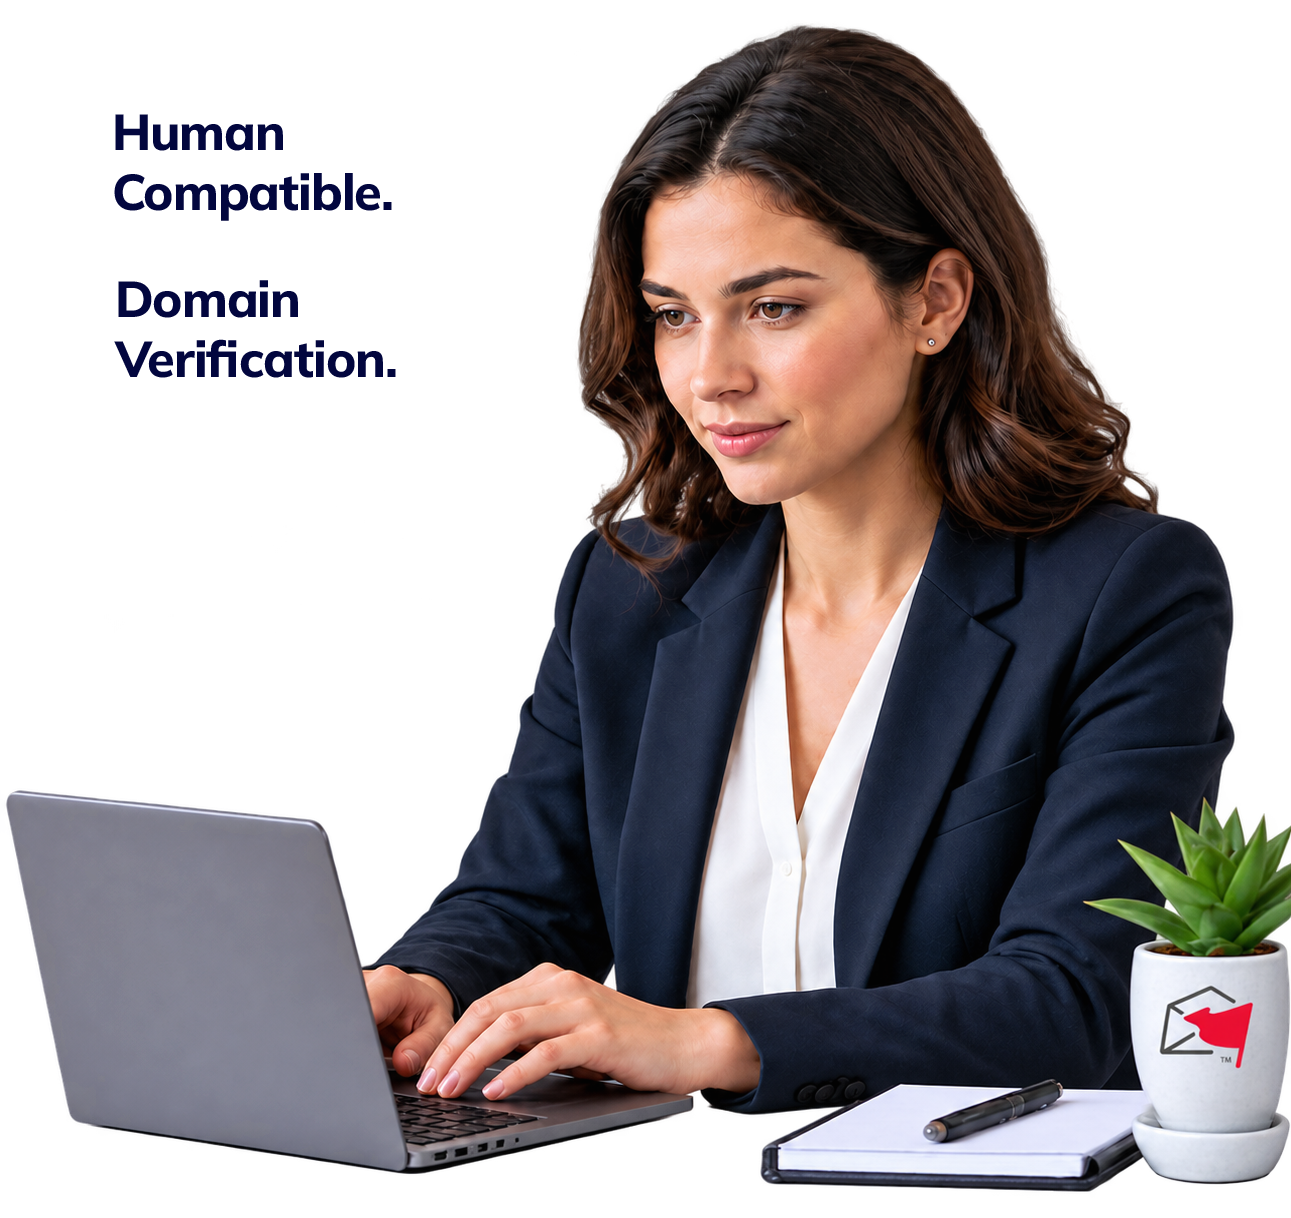
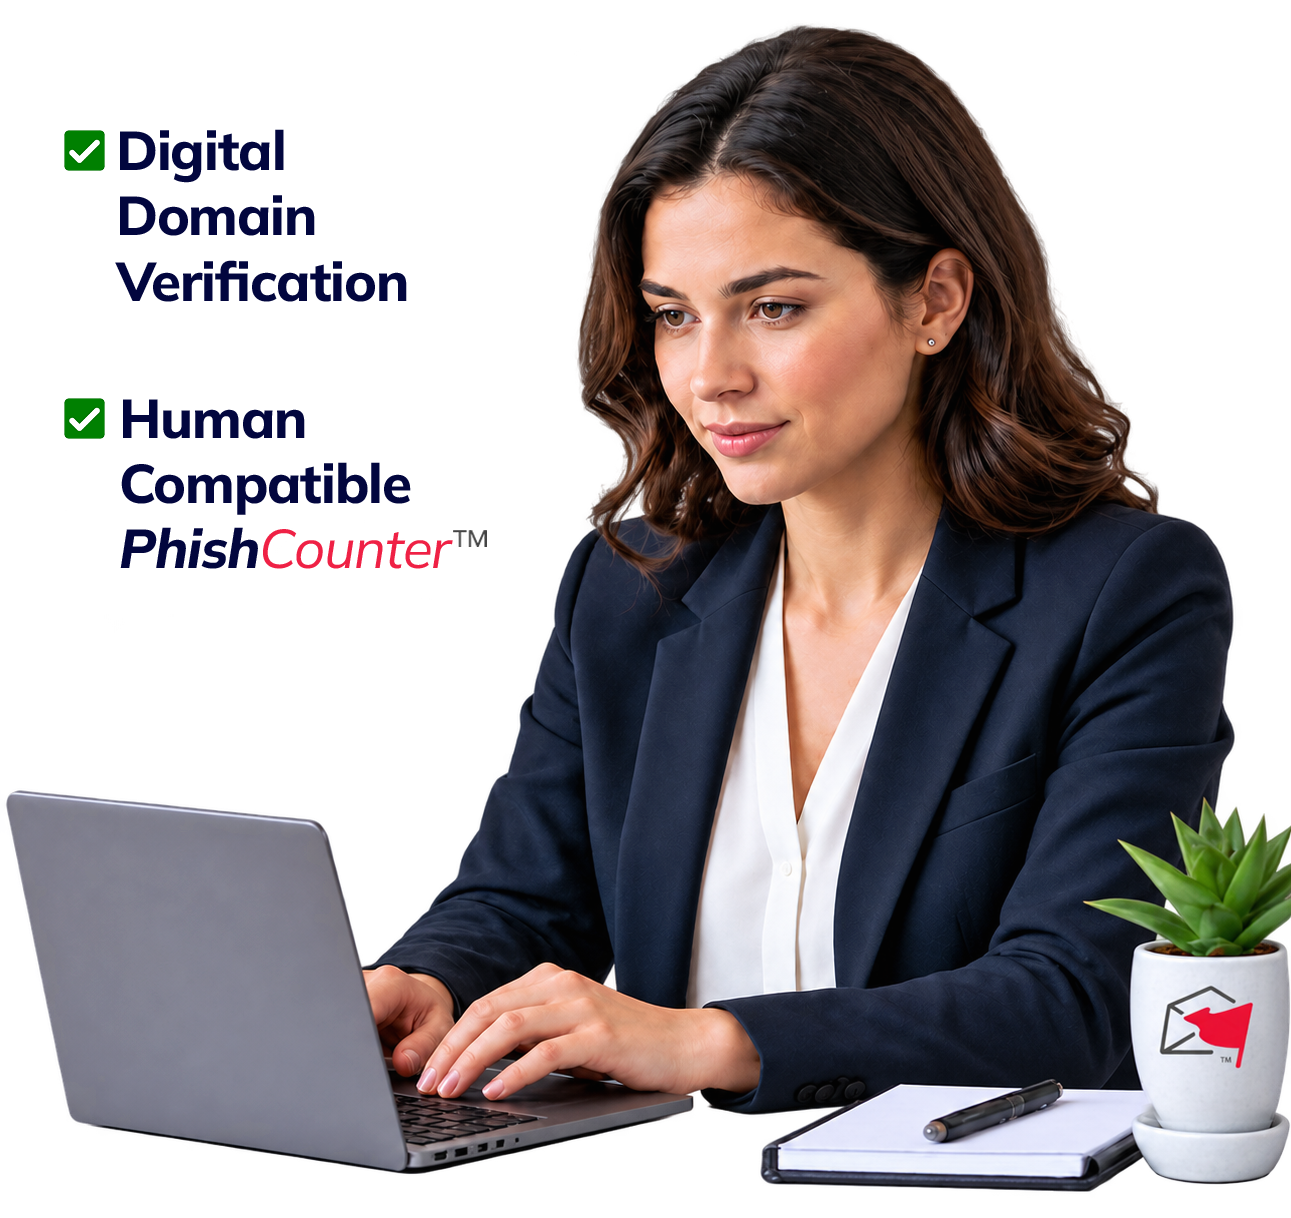
Home hero v3 image swap; /telecom hero images natural size; /join/domain receive card centered
- Home: 3rd hero image -> hero v3.png (old "need logo up" file removed)
- Telecom: drop scale-[...] transforms on the 3 hero images so they
  render at natural size like the /email hero
- DomainAppliance: centre the "What you will receive" card to match
  the /join/pro version
- Join: Digital action-card icon -> binary "10" glyph

Claude-Session: https://claude.ai/code/session_0186AyLfySxNzASERp4oJz87

Changed region(s): [[0.031, 0.0936, 0.3718, 0.468]]

diff --git a/src/pages/join/Telecom.jsx b/src/pages/join/Telecom.jsx
@@ -38,7 +38,7 @@ export default function Telecom() {
             <img
               src={telecomIntroCombinedImg}
               alt="Telecoms and Regulators — Help stop Call Spoofing. PhishFlagger protocols introduce a sequence number, known only by the valid carrier and the callee into the Caller ID field, providing a simple way to identify fake calls."
-              className="pic-with-no-link-mouse-over-increase relative z-10 block h-auto w-full max-w-[360px] scale-[0.8] object-contain sm:max-w-[400px] lg:w-[432px] lg:max-w-full lg:scale-[1.44] lg:-translate-x-[clamp(5rem,7vw,8.5rem)]"
+              className="pic-with-no-link-mouse-over-increase relative z-10 block h-auto w-full max-w-[360px] object-contain sm:max-w-[400px] lg:w-[432px] lg:max-w-full lg:-translate-x-[clamp(5rem,7vw,8.5rem)]"
             />
           </div>
 
@@ -47,7 +47,7 @@ export default function Telecom() {
             <img
               src={publicPath("/assets/images/existing%20caller%20id.png")}
               alt="Existing Caller ID can be used to validate calls now. The first three calls are marked safe and the fourth is marked fraud."
-              className="pic-with-no-link-mouse-over-increase relative z-10 block h-auto w-full max-w-[340px] scale-[0.7] object-contain sm:max-w-[380px] lg:w-[400px] lg:max-w-full lg:scale-[1.19]"
+              className="pic-with-no-link-mouse-over-increase relative z-10 block h-auto w-full max-w-[340px] object-contain sm:max-w-[380px] lg:w-[400px] lg:max-w-full"
             />
           </div>
 
@@ -56,7 +56,7 @@ export default function Telecom() {
             <img
               src={publicPath("/assets/images/granny image.png")}
               alt="User receiving an authenticated call"
-              className="pic-with-no-link-mouse-over-increase h-auto w-full max-w-[280px] rounded-2xl object-contain sm:max-w-[320px] lg:h-full lg:w-auto lg:max-w-full lg:scale-[1.3] lg:translate-x-[clamp(3.5rem,calc(3.5vw+1rem),5.25rem)]"
+              className="pic-with-no-link-mouse-over-increase h-auto w-full max-w-[280px] rounded-2xl object-contain sm:max-w-[320px] lg:h-full lg:w-auto lg:max-w-full lg:translate-x-[clamp(3.5rem,calc(3.5vw+1rem),5.25rem)]"
             />
           </div>
 

diff --git a/src/pages/join/DomainAppliance.jsx b/src/pages/join/DomainAppliance.jsx
@@ -229,15 +229,15 @@ export default function DomainAppliance() {
         <SectionCounter value="^0004" />
         <PageDownButton bg="white" />
         <div className="mx-auto grid max-w-content grid-cols-1 items-center gap-10 sm:gap-16 lg:grid-cols-2">
-          <div className="mx-auto w-full max-w-[420px] rounded-2xl border-2 border-black bg-white p-6 sm:p-8">
+          <div className="mx-auto w-full max-w-[420px] rounded-2xl border-2 border-black bg-white p-6 text-center sm:p-8">
             <h3 className="text-[16px] font-bold text-ink sm:text-[18px]">
               What you will receive.
             </h3>
-            <div className="mt-4 flex flex-col items-start">
+            <div className="mt-4 flex flex-col items-center">
               <span className="rounded-md border border-ink px-3 py-1 text-[12px] font-bold uppercase tracking-wide text-ink sm:text-[13px]">
                 Domain Appliance
               </span>
-              <ul className="mt-3 list-disc space-y-2 self-start pl-5 text-[14px] leading-[1.65] text-ink sm:text-[15px]">
+              <ul className="mt-3 w-full max-w-[220px] list-outside list-disc space-y-2 pl-5 text-left text-[14px] leading-[1.65] text-ink sm:text-[15px]">
                 <li>Terms of Service</li>
                 <li>Access Key</li>
                 <li>Appliance Install</li>

diff --git a/src/pages/join/Join.jsx b/src/pages/join/Join.jsx
@@ -234,15 +234,19 @@ export default function Join() {
               label="Digital"
               alt="Digital"
               svgIcon={
-                <svg viewBox="0 0 24 24" className="h-[64px] w-[64px] sm:h-[78px] sm:w-[78px]">
-                  <path
-                    d="M7 12.5l3.3 3.3L17 8.5"
-                    stroke="#16a34a"
-                    strokeWidth="2.5"
-                    strokeLinecap="round"
-                    strokeLinejoin="round"
-                    fill="none"
-                  />
+                <svg
+                  viewBox="0 0 24 24"
+                  className="h-[64px] w-[64px] sm:h-[78px] sm:w-[78px]"
+                  fill="none"
+                  stroke="#000"
+                  strokeWidth="2"
+                  strokeLinecap="round"
+                  strokeLinejoin="round"
+                >
+                  {/* Binary "10" — a slashed zero for the digital look */}
+                  <path d="M5.5 8.5 L8 7 V17" />
+                  <ellipse cx="15.5" cy="12" rx="3.3" ry="5" />
+                  <line x1="12.7" y1="16.5" x2="18.3" y2="7.5" />
                 </svg>
               }
             />

diff --git a/src/pages/Home.jsx b/src/pages/Home.jsx
@@ -70,7 +70,7 @@ export default function Home() {
         </div>
         <div className="min-w-0 lg:flex-1">
           <img
-            src={publicPath("/assets/images/hero%20v3%20need%20logo%20up.png")}
+            src={publicPath("/assets/images/hero%20v3.png")}
             alt="Woman using PhishFlagger-protected email"
             className="relative left-1/2 top-7 h-auto w-[120%] max-w-none -translate-x-1/2 origin-bottom object-contain pic-with-no-link-mouse-over-increase"
           />
